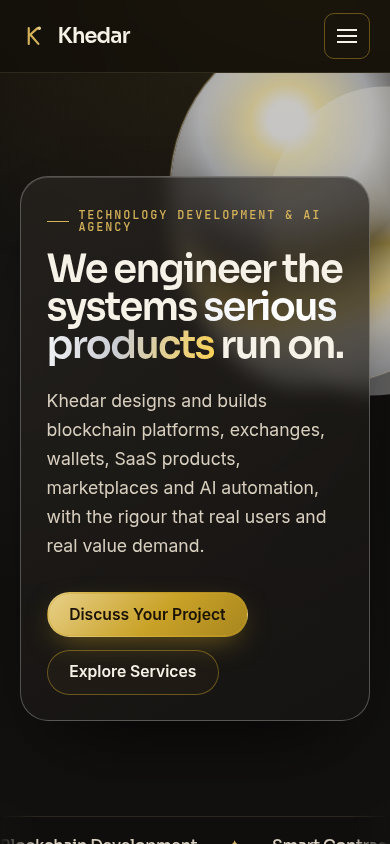
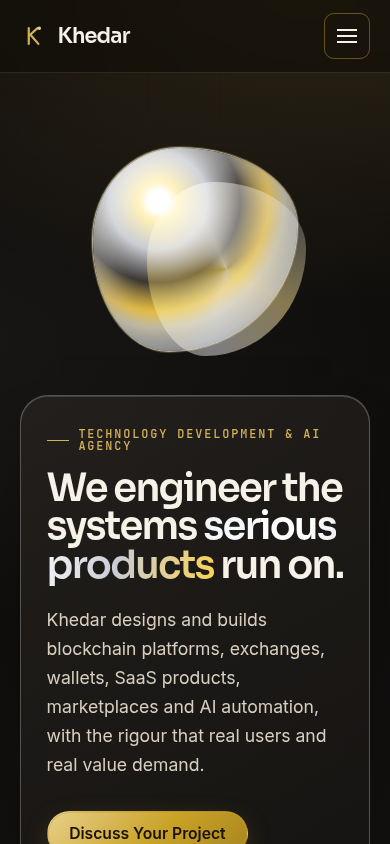
Mobile hero: stack chrome blob above panel, uncropped; refresh home screenshots

diff --git a/src/styles/global.css b/src/styles/global.css
@@ -96,7 +96,7 @@ body::before{background:radial-gradient(60rem 36rem at 80% -5%,rgba(255,214,102,
 .lc-blob i{position:absolute;inset:8%;border-radius:42% 58% 63% 37%/45% 38% 62% 55%;background:radial-gradient(circle at 32% 26%,#fff 0,#fff 5%,#fff1b8 10%,#c9ccd3 24%,#3a3632 40%,#ffd24a 54%,#fff6d6 62%,#eef0f4 72%,#6b6f78 86%,#2a2620 100%);box-shadow:inset -18px -24px 40px rgba(0,0,0,.45),inset 14px 18px 30px rgba(255,255,255,.5),0 0 0 1px rgba(255,255,255,.55),0 0 0 2px rgba(255,214,102,.25);animation:morph 16s ease-in-out infinite}
 .lc-blob i:nth-child(2){inset:22% 4% 6% 30%;opacity:.55;mix-blend-mode:screen;background:conic-gradient(from 120deg,#e8d08a,#d4d6db,#a8861f,#fff8e1,#6b6f78,#e8d08a);box-shadow:none;animation-duration:22s;animation-direction:reverse}
 @keyframes morph{33%{border-radius:58% 42% 38% 62%/55% 62% 38% 45%;transform:rotate(40deg)}66%{border-radius:38% 62% 55% 45%/62% 40% 60% 38%;transform:rotate(-20deg)}}
-@media (max-width:900px){.lc-blob{width:110vw;right:-45%;top:18%;opacity:.75}}
+@media (max-width:900px){.hero{flex-direction:column;justify-content:center;gap:1.5rem;padding-top:2rem}.lc-blob{position:relative;right:auto;top:auto;transform:none;width:min(62vw,340px);margin:0 auto;z-index:0}}
 .page-hero::before{inset:auto;right:max(2rem,8vw);top:50%;width:clamp(9rem,22vw,17rem);aspect-ratio:1;height:auto;filter:none;transform:translateY(-50%);border-radius:44% 56% 60% 40%/46% 40% 60% 54%;background:radial-gradient(circle at 32% 26%,#fff 0,#fff1b8 10%,#c9ccd3 26%,#3a3632 44%,#ffd24a 58%,#fff6d6 68%,#6b6f78 88%);box-shadow:inset -10px -14px 24px rgba(0,0,0,.45),inset 8px 10px 18px rgba(255,255,255,.45),0 0 0 1px rgba(255,255,255,.4);opacity:.9;animation:morph 18s ease-in-out infinite}
 @media (max-width:700px){.page-hero::before{right:-3rem;top:3.5rem;width:8rem;opacity:.45}}
 .page-hero h1{position:relative}
